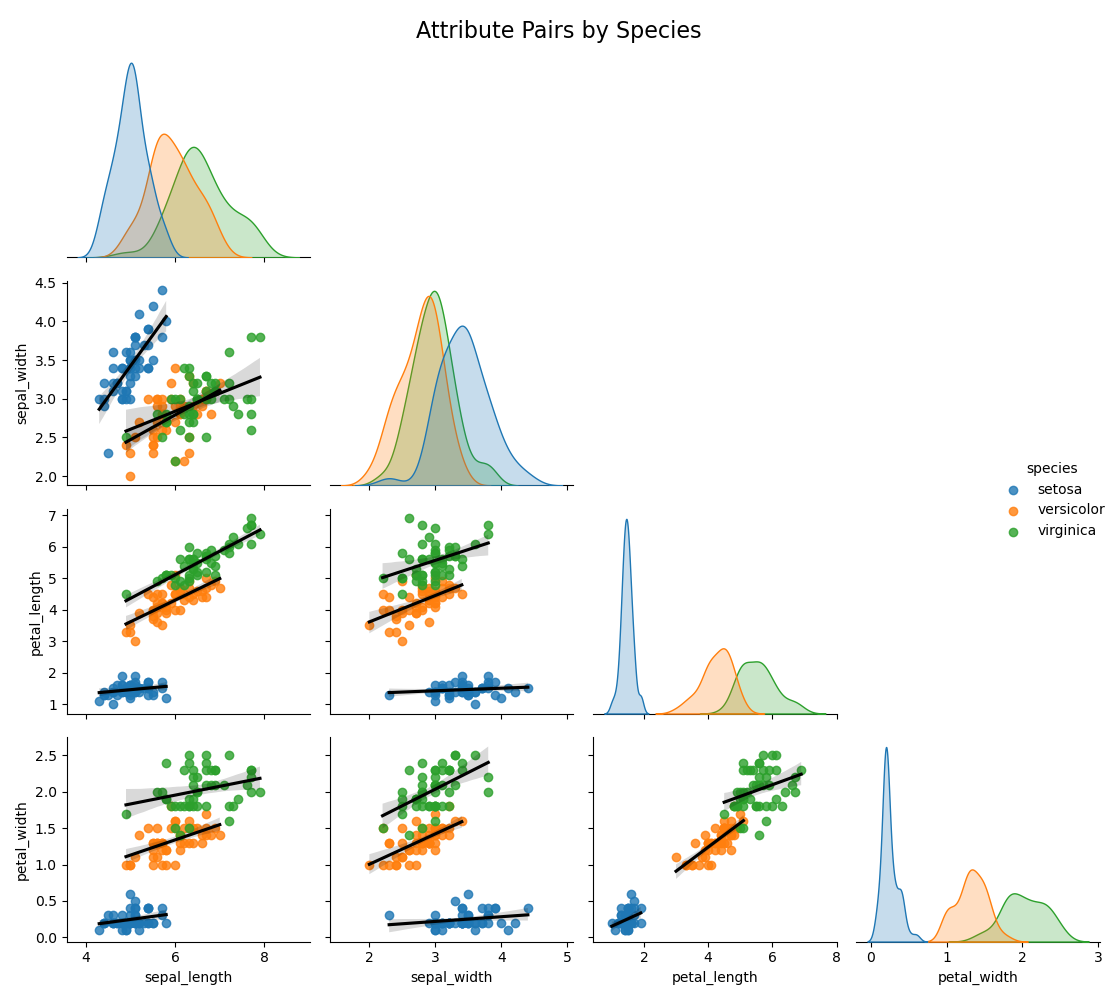
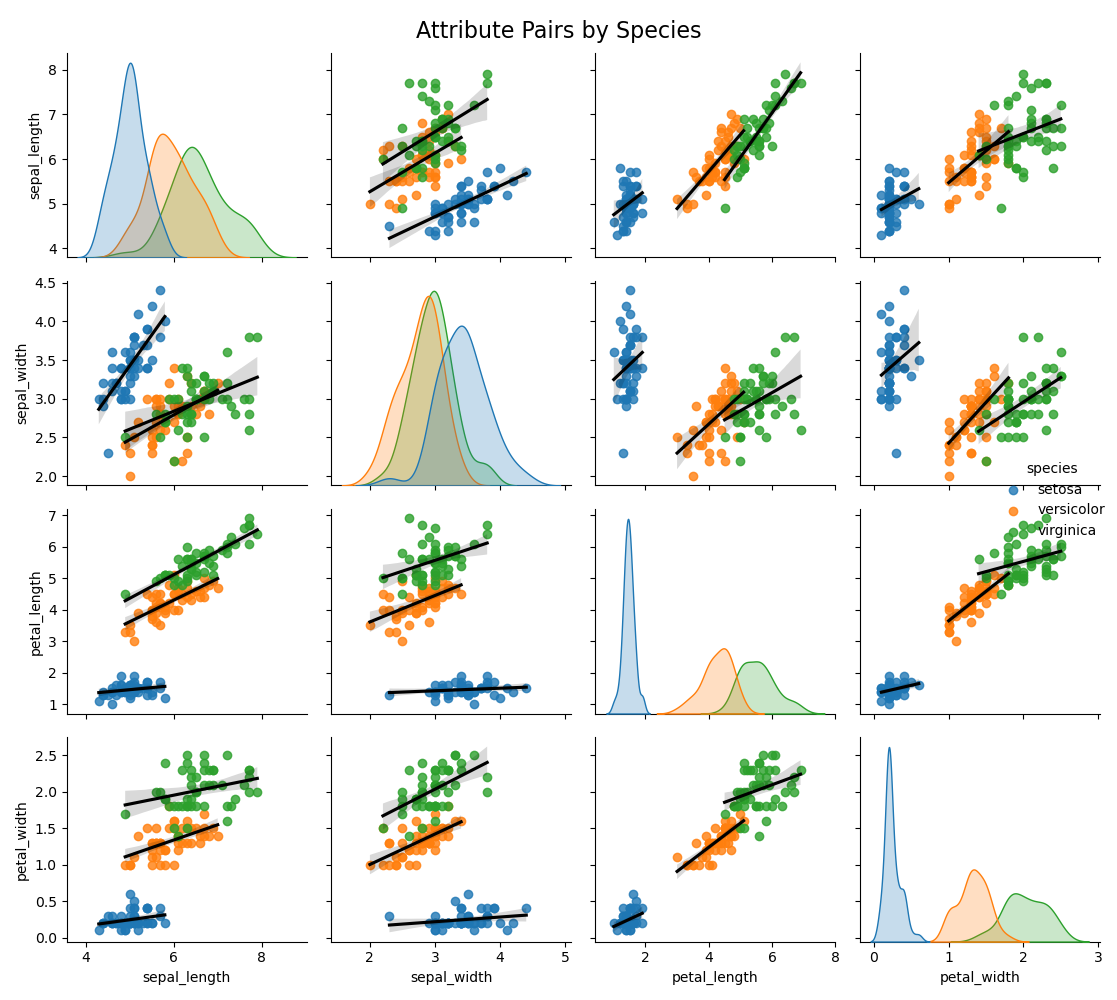
Set pairplot corner=False

diff --git a/tools.py b/tools.py
@@ -442,10 +442,10 @@ def generate_pairplot(df):
     # I.
     # Plot a pairplot to analyse the interaction between the different variables
     # https://python-charts.com/correlation/pairs-plot-seaborn/
-    sns.pairplot(df, hue="species", corner=True, kind="reg", plot_kws={'line_kws':{'color':'black'}})
+    sns.pairplot(df, hue="species", corner=False, kind="reg", plot_kws={'line_kws':{'color':'black'}})
 
     # Adjust layout & set subplot suptitle
-    plt.suptitle("Attribute Pairs by Species", fontsize=16)
+    plt.suptitle("Attribute Pairs by Species\n", fontsize=14)
     plt.tight_layout()
 
     # II.
